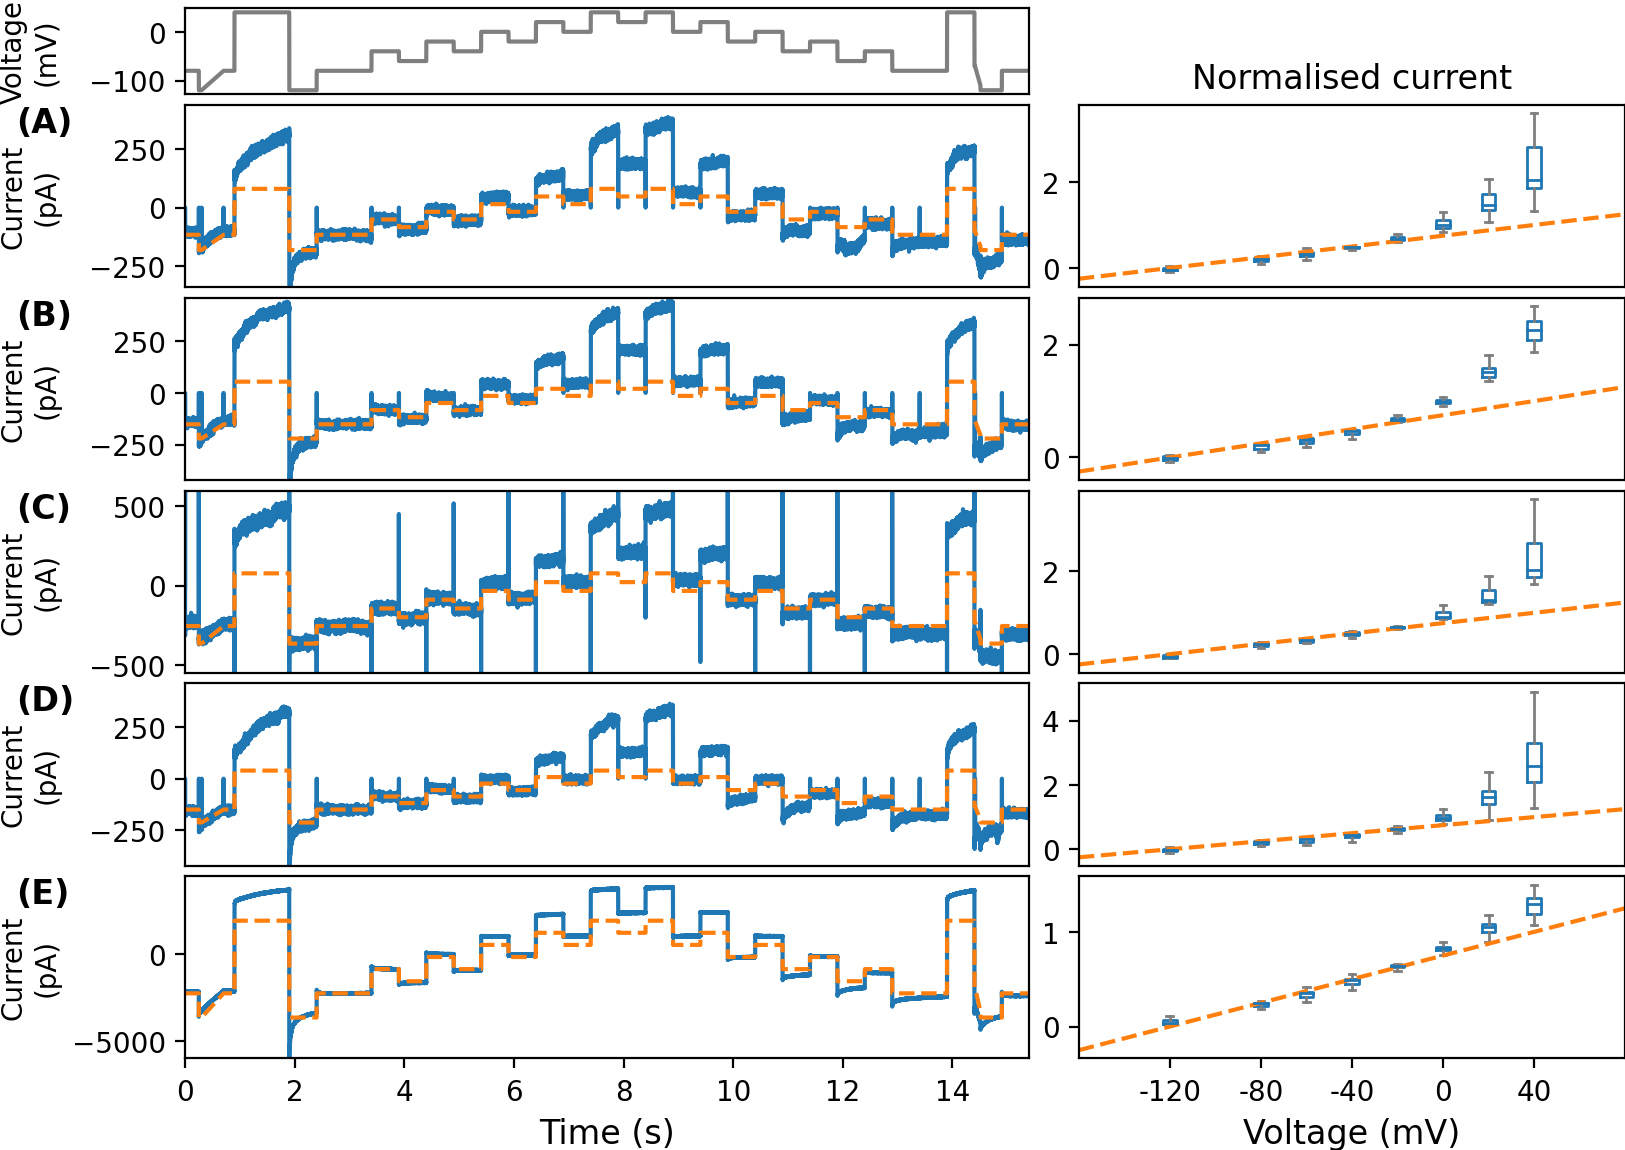
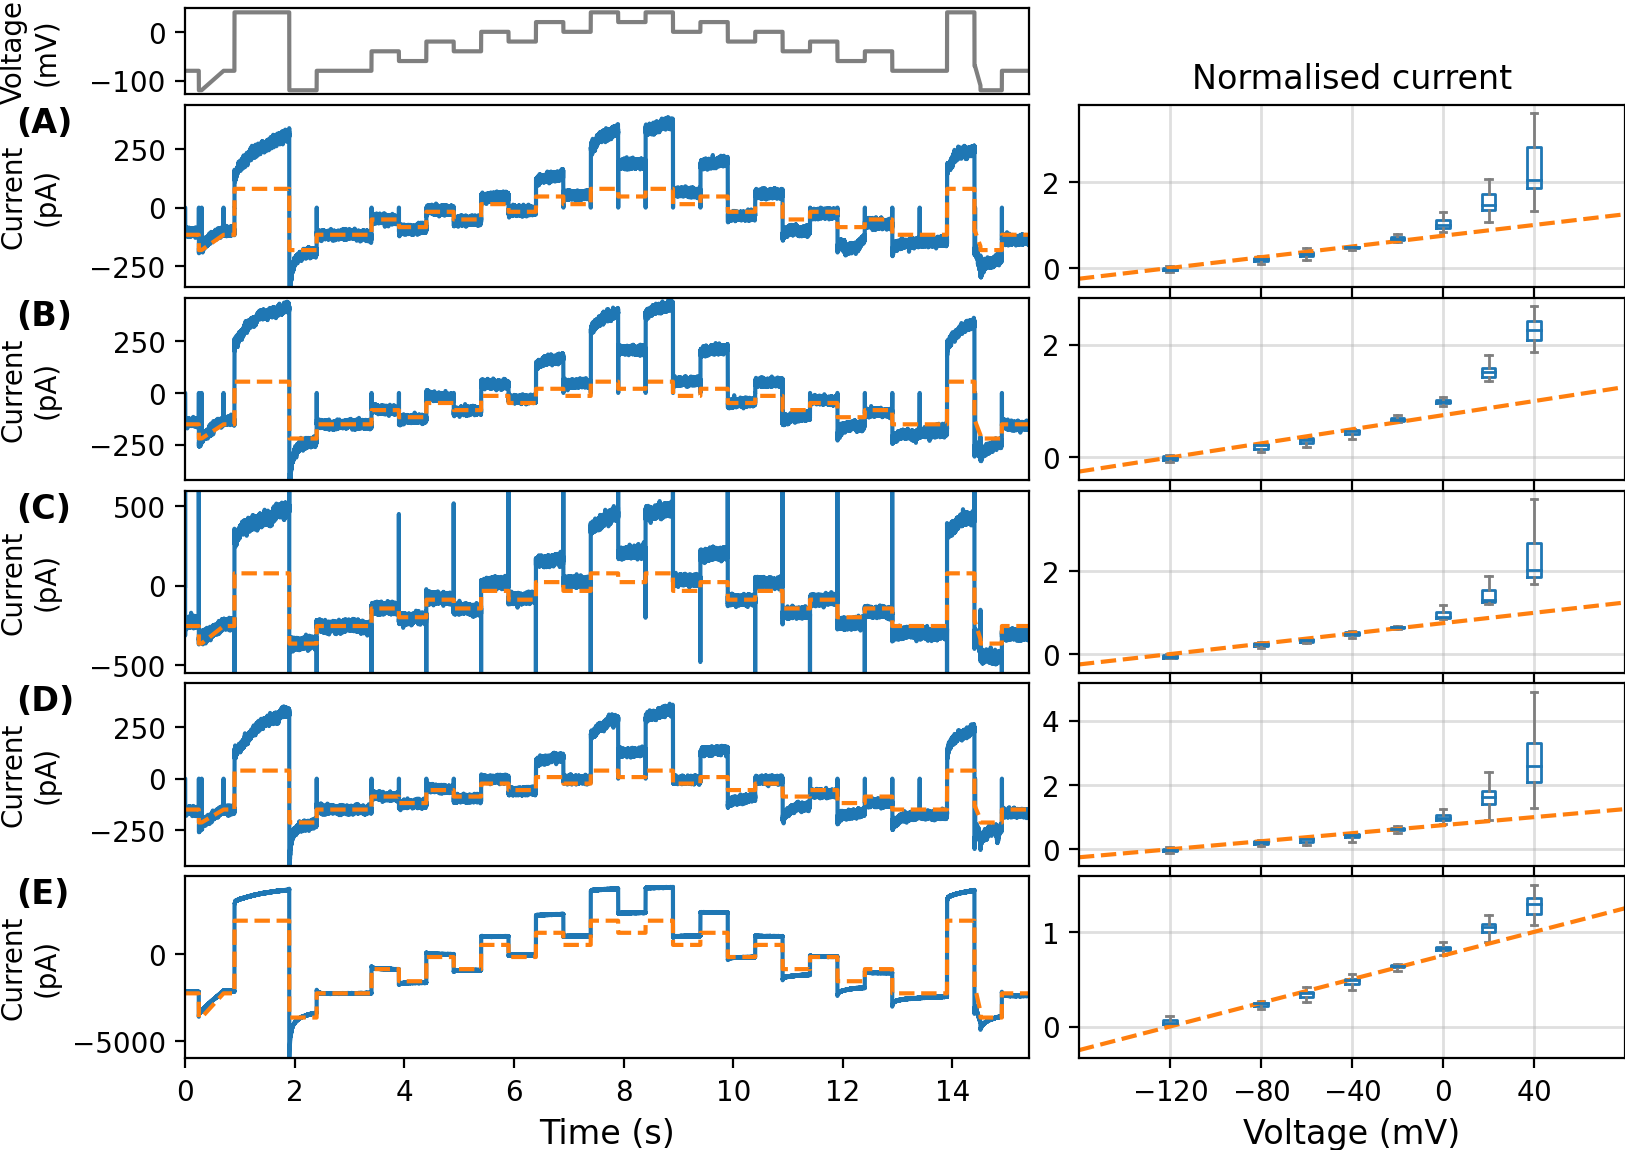
Comestic

diff --git a/figure-2.py b/figure-2.py
@@ -263,8 +263,6 @@ boxplot(np.array(niv_i1s), np.round(iv_v1s[0]), axes[1, 1])
 iv_i, iv_v = compute_leak_iv([liv_i1s[0], v])
 iv_i = normalise_by(iv_i, liv_i1s[0])
 axes[1, 1].plot(iv_v, iv_i, c='C1', ls='--')
-axes[1, 1].set_xlim([iv_v[0], iv_v[-1]])
-axes[1, 1].set_xticks([])
 
 axes[2, 1] = fig.add_subplot(grid[3:5, 3:])
 niv_i2s = []
@@ -274,8 +272,6 @@ boxplot(np.array(niv_i2s), np.round(iv_v2s[0]), axes[2, 1])
 iv_i, iv_v = compute_leak_iv([liv_i2s[0], v])
 iv_i = normalise_by(iv_i, liv_i2s[0])
 axes[2, 1].plot(iv_v, iv_i, c='C1', ls='--')
-axes[2, 1].set_xlim([iv_v[0], iv_v[-1]])
-axes[2, 1].set_xticks([])
 
 axes[3, 1] = fig.add_subplot(grid[5:7, 3:])
 niv_i3s = []
@@ -285,8 +281,6 @@ boxplot(np.array(niv_i3s), np.round(iv_v3s[0]), axes[3, 1])
 iv_i, iv_v = compute_leak_iv([liv_i3s[0], v])
 iv_i = normalise_by(iv_i, liv_i3s[0])
 axes[3, 1].plot(iv_v, iv_i, c='C1', ls='--')
-axes[3, 1].set_xlim([iv_v[0], iv_v[-1]])
-axes[3, 1].set_xticks([])
 
 axes[4, 1] = fig.add_subplot(grid[7:9, 3:])
 niv_i4s = []
@@ -296,8 +290,6 @@ boxplot(np.array(niv_i4s), np.round(iv_v4s[0]), axes[4, 1])
 iv_i, iv_v = compute_leak_iv([liv_i4s[0], v])
 iv_i = normalise_by(iv_i, liv_i4s[0])
 axes[4, 1].plot(iv_v, iv_i, c='C1', ls='--')
-axes[4, 1].set_xlim([iv_v[0], iv_v[-1]])
-axes[4, 1].set_xticks([])
 
 axes[5, 1] = fig.add_subplot(grid[9:11, 3:])
 niv_i5s = []
@@ -307,9 +299,18 @@ boxplot(np.array(niv_i5s), np.round(iv_v5s[0]), axes[5, 1])
 iv_i, iv_v = compute_leak_iv([liv_i5s[0], v])
 iv_i = normalise_by(iv_i, liv_i5s[0])
 axes[5, 1].plot(iv_v, iv_i, c='C1', ls='--')
-axes[5, 1].set_xlim([iv_v[0], iv_v[-1]])
-axes[5, 1].set_xticks([-120, -80, -40, 0, 40])
-axes[5, 1].set_xticklabels([-120, -80, -40, 0, 40])
+
+for i in range(1, 6):
+    #axes[i, 1].set_ylim([-0.5, 4.5])
+    #axes[i, 1].set_yticks([0, 2, 4])
+    #axes[i, 1].set_yticklabels([r'$0$', r'$2$', r'$4$'])
+    axes[i, 1].grid(lw=1, alpha=0.4)
+    axes[i, 1].set_xlim([-160, 80])
+    axes[i, 1].set_xticks([-120, -80, -40, 0, 40])
+    if i != 5:
+        axes[i, 1].set_xticklabels([])
+    else:
+        axes[i, 1].set_xticklabels([r'$-120$', r'$-80$', r'$-40$', r'$0$', r'$40$'])
 
 axes[-1, 1].set_xlabel('Voltage (mV)', fontsize=12)
 
